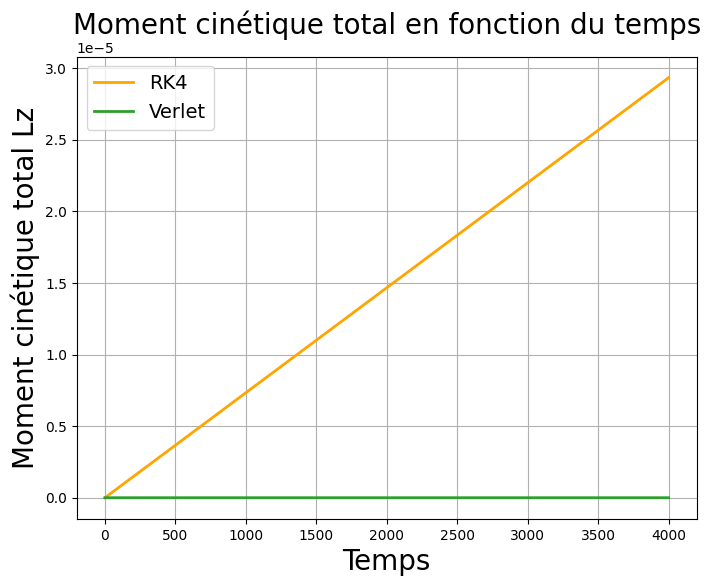
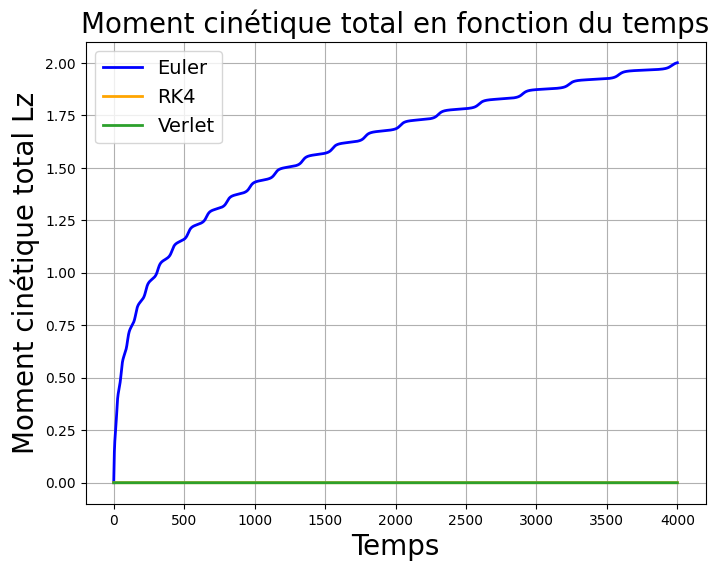
moment cinetique

diff --git a/main.py b/main.py
@@ -1,6 +1,7 @@
 import numpy as np
 import math as mt
 import matplotlib.pyplot as plt
+from scipy.integrate import odeint
 import time
 import os
 
@@ -357,6 +358,36 @@ def verlet_integrate(r1_0, r2_0, v1_0, v2_0, m1, m2, t, dt, G=1.0):
     return r1, r2, v1, v2
 
 
+def odeint_integrate(r1_0, r2_0, v1_0, v2_0, m1, m2, t, G=1.0):
+    """
+    Intègre les équations du mouvement de deux corps en utilisant la fonction odeint de SciPy.
+    param :
+        r1_0: position initiale du corps 1 (array-like)
+        r2_0: position initiale du corps 2 (array-like)
+        v1_0: vitesse initiale du corps 1 (array-like)
+        v2_0: vitesse initiale du corps 2 (array-like)
+        m1: masse du corps 1 (float)
+        m2: masse du corps 2 (float)
+        t: temps (array-like)
+        G: constante gravitationnelle (float, défaut=1.0)
+    return:
+        r1, r2: positions des deux corps à chaque instant t (arrays numpy)
+        v1, v2: vitesses des deux corps à chaque instant t (arrays numpy)
+    """
+
+    def deriv(state, t):
+        r1, v1, r2, v2 = state.reshape(4, 2)
+        a1, a2 = acceleration(r1, r2, m1, m2, G)
+        return np.concatenate((v1, a1, v2, a2))
+
+    state0 = np.concatenate((r1_0, v1_0, r2_0, v2_0))
+    sol = odeint(deriv, state0, t)
+    r1 = sol[:, :2]
+    v1 = sol[:, 2:4]
+    r2 = sol[:, 4:6]
+    v2 = sol[:, 6:]
+    return r1, r2, v1, v2
+
 def affiche_positions(t, r1, r2, methode, label1="Corps 1", label2="Corps 2"):
     """
     Affiche les trajectoires des deux corps.
@@ -623,11 +654,12 @@ def moment_cinetique(r1, r2, v1, v2, m1, m2):
     return L1 + L2
 
 
-def tracer_moment_cinetique(t, L_rk4, L_ver, L_ana):
+def tracer_moment_cinetique_double(t, L_eul, L_rk4, L_ver, L_ana):
     """
     Trace le moment cinetique total en fonction du temps pour RK4 et Verlet.
     param :
         t: temps (array-like)
+        L_eul: moment cinetique total pour Euler (array-like)
         L_rk4: moment cinetique total pour RK4 (array-like)
         L_ver: moment cinetique total pour Verlet (array-like)
         L_ana: moment cinetique total pour la solution analytique (array-like)
@@ -635,18 +667,36 @@ def tracer_moment_cinetique(t, L_rk4, L_ver, L_ana):
         None
     """
     plt.figure(figsize=(8, 6))
-    L_rk4_norm = abs(L_rk4 - L_ana) / abs(L_ana[0])
-    L_ver_norm = abs(L_ver - L_ana) / abs(L_ana[0])
-    plt.plot(t, L_rk4_norm, label="RK4", color=couleur.get("RK4", "tab:orange"))
-    plt.plot(t, L_ver_norm, label="Verlet", color=couleur.get("Verlet", "tab:green"))
-    plt.xlabel("Temps")
-    plt.ylabel("Moment cinétique total Lz")
-    plt.title("Moment cinétique total en fonction du temps")
-    plt.grid(True)
-    plt.legend()
-    plt.savefig(os.path.join(FIG_DIR, "moment_cinetique_vs_t.png"), bbox_inches="tight")
-    plt.show()
+    denom = abs(L_ana[0]) if abs(L_ana[0]) > 0 else 1.0
+    L_eul_norm = np.abs(L_eul - L_ana) / denom
+    L_rk4_norm = np.abs(L_rk4 - L_ana) / denom
+    L_ver_norm = np.abs(L_ver - L_ana) / denom
 
+    fig, (ax1, ax2) = plt.subplots(1, 2, figsize=(13, 5))
+
+    ax1.plot(t, L_eul_norm, label="Euler", color=couleur.get("Euler", "tab:blue"))
+    ax1.plot(t, L_rk4_norm, label="RK4", color=couleur.get("RK4", "tab:orange"))
+    ax1.plot(t, L_ver_norm, label="Verlet", color=couleur.get("Verlet", "tab:green"))
+    ax1.set_title("Dérive du moment cinétique (toutes méthodes)")
+    ax1.set_xlabel("Temps")
+    ax1.set_ylabel(r"$(L - L_0)/|L_0|$")
+    ax1.grid(True)
+    ax1.legend()
+
+    ax2.plot(t, L_rk4_norm, label="RK4", color=couleur.get("RK4", "tab:orange"))
+    ax2.plot(t, L_ver_norm, label="Verlet", color=couleur.get("Verlet", "tab:green"))
+    ax2.set_title("Zoom : RK4 vs Verlet")
+    ax2.set_xlabel("Temps")
+    ax2.grid(True)
+    ax2.legend()
+
+    for ax in (ax1, ax2):
+        ax.ticklabel_format(style="plain", axis="y", useOffset=False)
+
+    Tfinal = t[-1] if hasattr(t, "__len__") and len(t) > 0 else 0
+    plt.savefig(os.path.join(FIG_DIR, f"conservation_moment_T={Tfinal}.png"), bbox_inches="tight")
+    plt.show()
+    
 
 
 # ============================================================
@@ -660,7 +710,7 @@ r_01 = (1.0, 0.0)
 r_02 = (-1.0, 0.0)
 v_01, v_02 = vitesses_circulaires(r_01, r_02, m1, m2, G, sens=+1)
 
-dt = 0.1
+dt = 0.1    
 t = np.arange(0, 4000, dt)
 
 # =============================================================
@@ -704,11 +754,11 @@ r1_verlet, r2_verlet, v1_verlet, v2_verlet = verlet_integrate(r_01, r_02, v_01, 
 # =============================================================
 # etude du moment cinetique 
 # =============================================================
-
+L_eul = moment_cinetique(r1_eul, r2_eul, v1_eul, v2_eul, m1, m2)
 L_rk4 = moment_cinetique(r1_rk4, r2_rk4, v1_rk4, v2_rk4, m1, m2)
 L_ver = moment_cinetique(r1_verlet, r2_verlet, v1_verlet, v2_verlet, m1, m2)
 L_ana = moment_cinetique(r1_ana, r2_ana, v1_ana, v2_ana, m1, m2)
-tracer_moment_cinetique(t, L_rk4, L_ver, L_ana)
+tracer_moment_cinetique_double(t, L_eul, L_rk4, L_ver, L_ana)
 
 # ============================================================
 # Partie 2 : N-corps
